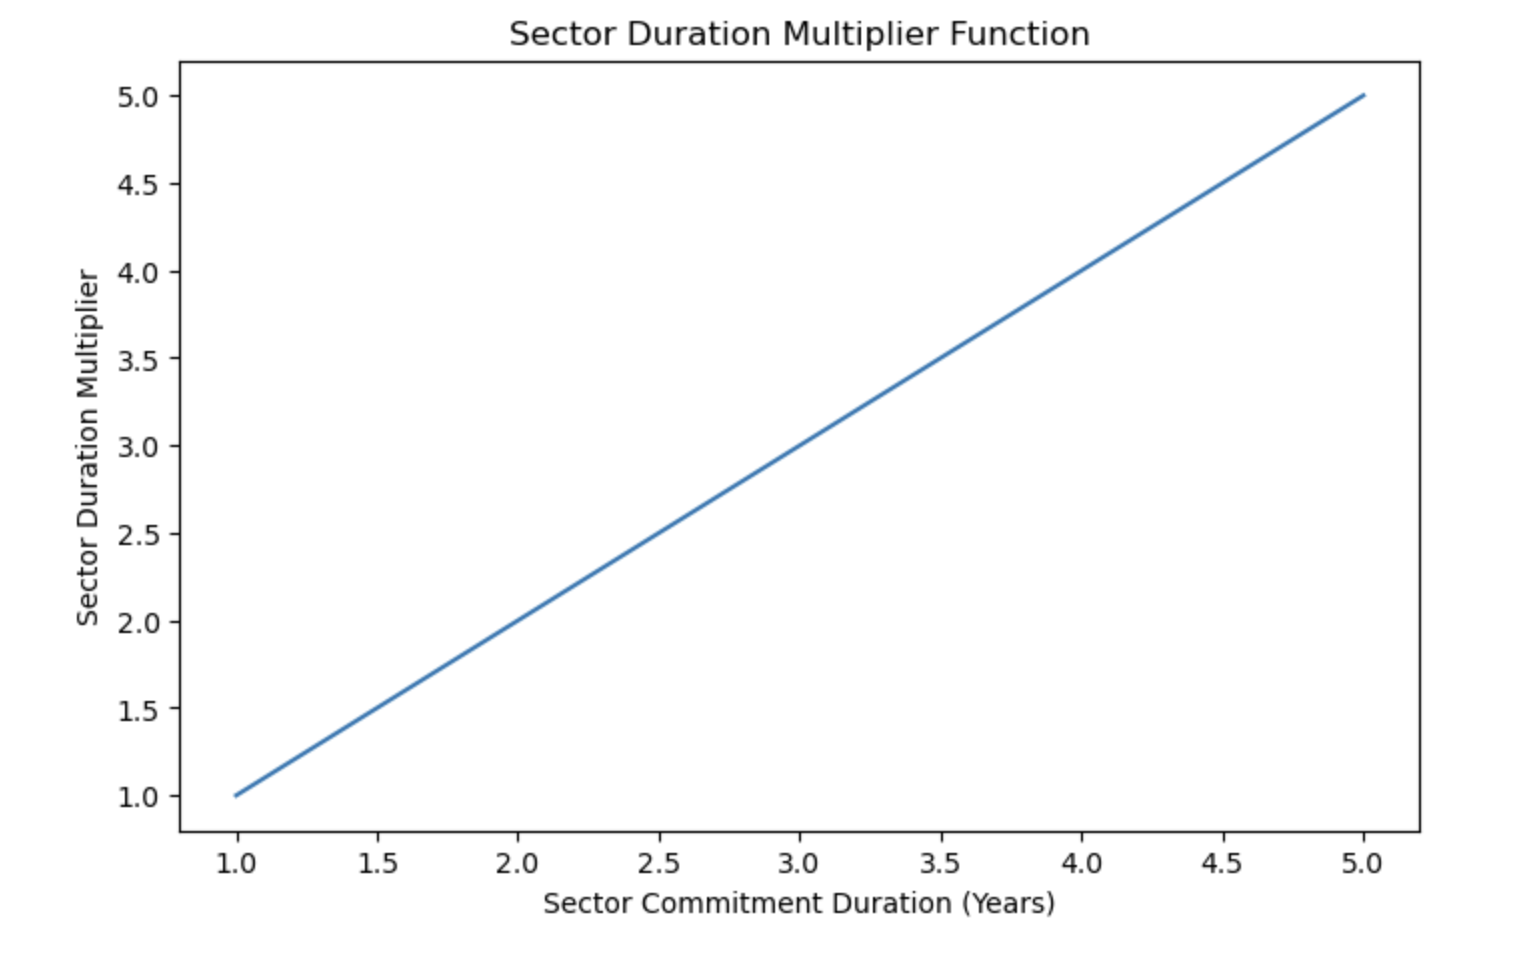
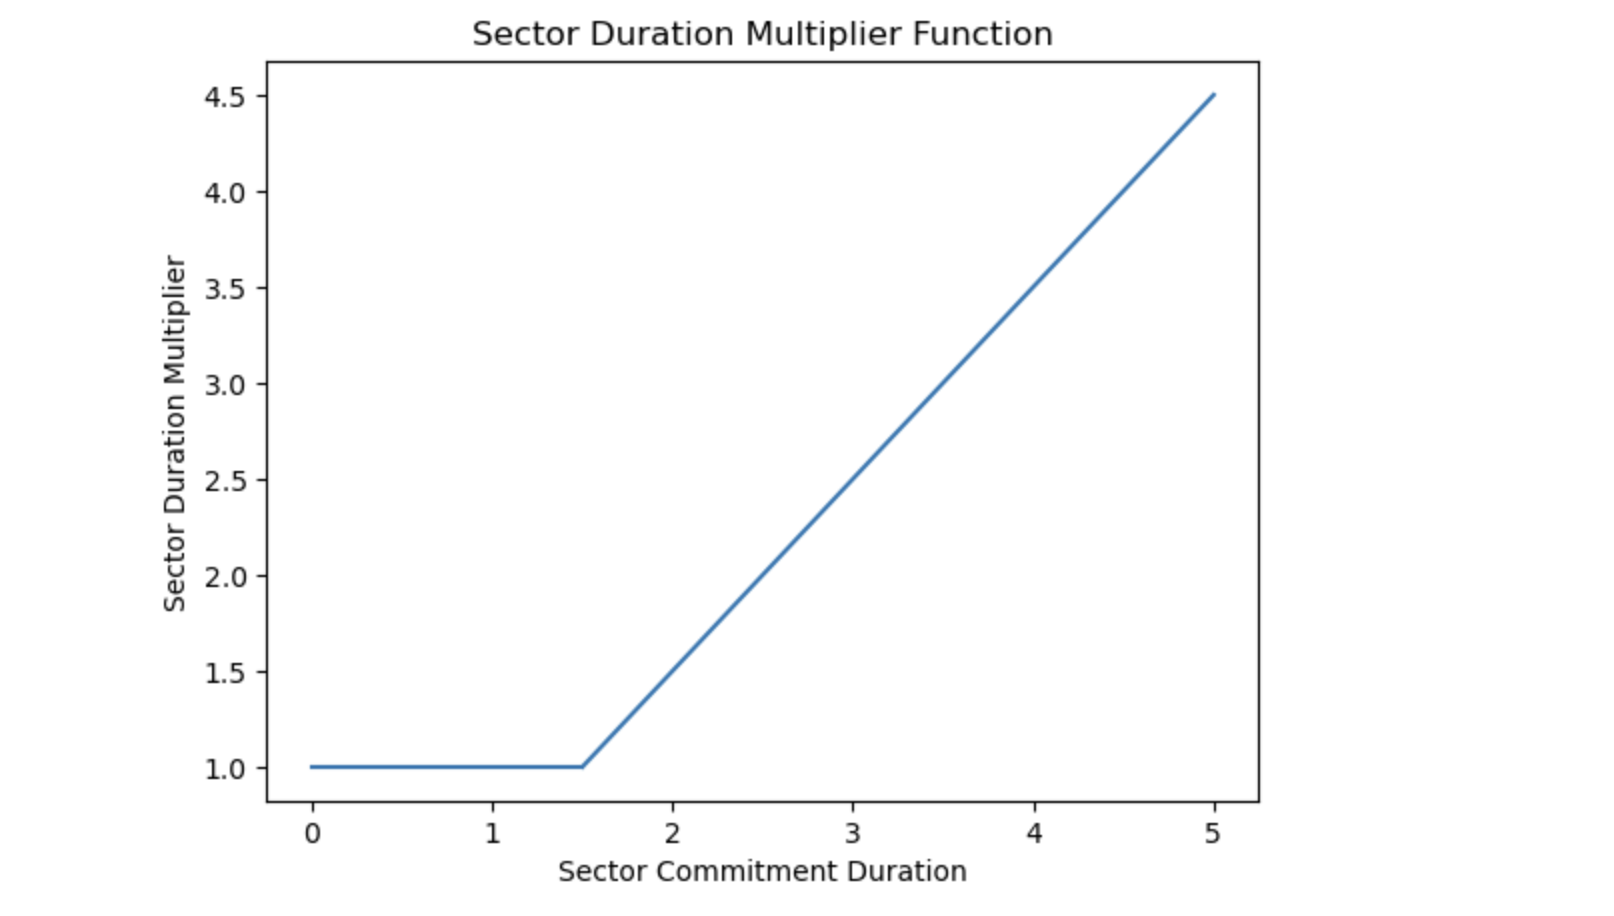
Further updates to spec and SDM Function

diff --git a/FIPS/fip-00XX.md b/FIPS/fip-00XX.md
@@ -11,7 +11,7 @@ created: 2022-12-14
 ## Simple Summary
 - A Sector Duration Multiplier (SDM) is introduced for all sectors, including Committed Capacity (CC) sectors and sectors containing storage deals.
 - A longer sector will have a higher Quality Adjusted Power than a shorter sector, all things equal.
-- The Duration Multiplier is multiplicative on the existing Quality Multiplier incentive (Filecoin Plus incentive). [Filecoin Plus](https://github.com/filecoin-project/FIPs/blob/master/FIPS/fip-0003.md) already offers up to a 10x multiplier for proving storage of data from verified clients. This FIP introduces an independent Duration Multiplier up to 5x. Thus, the maximum multiplier available to any sector will increase from 10x to 50x.
+- The Duration Multiplier is multiplicative on the existing Quality Multiplier incentive (Filecoin Plus incentive). [Filecoin Plus](https://github.com/filecoin-project/FIPs/blob/master/FIPS/fip-0003.md) already offers up to a 10x multiplier for proving storage of data from verified clients. This FIP introduces an independent Duration Multiplier up to 4.5x. Thus, the maximum multiplier available to any sector will increase from 10x to 45x.
 - Sectors with higher Quality Adjusted Power as a result of the Sector Duration Multiplier and Quality Multiplier will require higher initial pledge collateral.
 - The minimum sector duration time will increase from 6 months to 1 year and the maximum sector duration will increase from 1.5 years to 5 years. The upper bound of [Deal Duration Bounds](https://github.com/filecoin-project/builtin-actors/blob/b5c101ab94f562ba43c1eca31bd1e73c6fc35794/actors/market/src/policy.rs#L33-L35) will increase to 5 years as well. 
 - CEL and the community will monitor the network and look to increase the maximum sector duration in a future FIP if network conditions merit, pending community-driven support for such measures.
@@ -20,7 +20,7 @@ created: 2022-12-14
 
 
 ## Problem Motivation
-Currently, Storage Providers do not receive any additional compensation or incentives for committing longer term sectors (whether that be CC or storage deals) to the network. The protocol places equal value on 180 to 540 day sectors in terms of storage mining rewards. However, in making an upfront commitment to longer term sectors, Storage Providers take on additional operational risks (more can go wrong in a longer time period), and lock rewards for longer. Furthermore, in committing longer term sectors/deals, Storage Providers demonstrate their long-term commitment to the mission and growth of the Filecoin Network, and are more aligned with client preference for persistent storage. Therefore, the added value of longer-term sector commitments, coupled with the compounded operational/liquidity risks Storage Providers incur for committing longer term sectors should be compensated for in the form of increased rewards.
+Currently, Storage Providers do not receive any additional compensation or incentives for committing longer term sectors (whether that be CC or storage deals) to the network. The protocol places equal value on 180 to 540 day sectors in terms of storage mining rewards. However, in making an upfront commitment to longer-term sectors, Storage Providers take on additional operational risks (more can go wrong in a longer time period), and lock rewards for longer. Furthermore, in committing longer term sectors/deals, Storage Providers demonstrate their long-term commitment to the mission and growth of the Filecoin Network, and are more aligned with client preference for persistent storage. Therefore, the added value of longer-term sector commitments, coupled with the compounded operational/liquidity risks Storage Providers incur for committing longer term sectors should be compensated for in the form of increased rewards.
 
 From a macroeconomic perspective, earlier community [discussions](https://github.com/filecoin-project/community/discussions/572) have highlighted many challenges and economic headwinds the Filecoin network faces. Some key issues include: 
 - A challenging investment environment given current global macroeconomic dynamics coupled with recent volatility in crypto markets
@@ -43,7 +43,7 @@ fn sdm(duration_commitment: f64) -> f64 {
     }
 }
 ```
-### SDM Upon Onboarding 
+### SDM Upon Sector Onboarding 
 Upon onboarding, the SDM applies from activaion epoch to expiration epoch: 
 
 ```
@@ -111,9 +111,9 @@ Introduce a multiplier based on sector duration
 | **SectorDurationMultiplier (SDM)** | **Multiplier for power for storage based on promised sector duration** |
 
 **This SectorDurationMultiplier function proposed is linear with slope 1**. See below for the function proposed. 
-![SDM_Function](../resources/fip-00XX/SDM_Function.jpg)
+![SDM_Function](../resources/fip-00XX/SDM_Function.png)
 
-The rationale to select this linear slope 1 function is based on a principle that the selected parameters should maximize the effectiveness of the duration incentive, subject to SP’s collateral availability constraints, while taking into account micro and macroeconomic consequences with minimal added implementation complexity. 
+The rationale to select this linear slope 1 function is based on a principle that the selected parameters should maximize the effectiveness of the duration incentive, subject to SP’s collateral availability constraints, while taking into account micro and macroeconomic consequences with minimal added implementation complexity. The SDM function is linear with slope 1 with initial sector commitments between 1 and 1.5 years receiving a 1x Quality multiplier so as to not disadvantage SP's who had already committed sectors for 1.5 years. 
 
 Therefore, the new suggested *Sector Quality Adjusted Power* is: 
 
@@ -126,7 +126,7 @@ We propose a minimum sector commitment of 1 year. This is a ~180-day increase fr
 We propose a maximum sector commitment of 5 years. This is an increase from the current maximum sector commitment of 540 days. Note, the protocol currently sets a maximum sector lifetime to 5 years (i.e sectors can be extended up to 5 years). This FIP would not adjust that.
 
 ### Change to PreCommitDeposit (PCD)
-With this FIP, sectors can get higher quality multipliers and receive higher expected rewards than currently possible. This has an impact on the value of the PreCommit Deposit (PCD). From the security point of view, PCD has to be large enough in order to consume the expected gain of a provider that is able to pass the PoRep phase with an invalid replica (i.e. gaining block rewards without storing). The recent FIP-0034 sets the PCD to 20 days of expected reward for a sector of quality 10 (max sector quality currently possible via FIL+ incentives). We now need to adjust this to 20 days of expected reward for a sector of quality 50 (the new max quality) to maintain the status quo about PoRep security.
+With this FIP, sectors can get higher quality multipliers and receive higher expected rewards than currently possible. This has an impact on the value of the PreCommit Deposit (PCD). From the security point of view, PCD has to be large enough in order to consume the expected gain of a provider that is able to pass the PoRep phase with an invalid replica (i.e. gaining block rewards without storing). The recent FIP-0034 sets the PCD to 20 days of expected reward for a sector of quality 10 (max sector quality currently possible via FIL+ incentives). We now need to adjust this to 20 days of expected reward for a sector of quality 45 (the new max quality) to maintain the status quo about PoRep security.
 
 ### Change to Termination Fees
 In the new policy the termination fee cap will scale with the duration multiplier. The rationale is to maintain the relative incentives regarding the ratio of termination fees to aggregate lifetime block rewards of a sector. 
@@ -171,25 +171,25 @@ In reality, the percentage of available supply locked has been decreasing since 
 This environment can be improved however. Longer sectors mean collateral is locked for longer. All else equal,  this means the total amount of locked collateral is consistently higher.
 
 ### Impact on Pre-Commit Deposit
-FIP-0034 sets the pre-commit deposit to a fixed value regardless of sector content. From a security point of view, PCD has to be large enough in order to cover the expected gain of a provider that is able to pass the PoRep phase with an invalid replica (i.e. gaining block rewards without storing). The recent FIP-0034 sets the PCD to 20 days of expected reward for a sector of quality 10 (max quality). We now need to increase this to 20 days of expected reward for a sector of quality 50 (the new max quality) to maintain the status quo about PoRep security.
+FIP-0034 sets the pre-commit deposit to a fixed value regardless of sector content. From a security point of view, PCD has to be large enough in order to cover the expected gain of a provider that is able to pass the PoRep phase with an invalid replica (i.e. gaining block rewards without storing). The recent FIP-0034 sets the PCD to 20 days of expected reward for a sector of quality 10 (max quality). We now need to increase this to 20 days of expected reward for a sector of quality 45 (the new max quality) to maintain the status quo about PoRep security.
 
 As of December 2022, the calculations are approximately:
 ```
 EpochReward := 97.1115 FIL
 NetworkPower := 18.985 * 2^60 Bytes
-CirculatingSuppply := 401.5 * 10^6 FIL
+CirculatingSuppply := 401.4699 * 10^6 FIL
 
 // Sector Quality = 1
-StoragePledge := 0.00878 FIL
-ConsensusPledge := 0.18907 FIL
-PreCommitDeposit := 50 * StoragePledge = 0.43904 FIL
-InitialPledge := StoragePledge + ConsensusPledge = 0.19785 FIL
+StoragePledge := 0.0088
+ConsensusPledge := 0.1891 FIL
+PreCommitDeposit := 45 * StoragePledge = 0.3951
+InitialPledge := StoragePledge + ConsensusPledge = 0.1978
 
-// Sector Quality = 50
-StoragePledge := 0.43904 FIL
-ConsensusPledge := 9.45331 FIL
-PreCommitDeposit := StoragePledge = 0.43904 FIL
-InitialPledge := StoragePledge + ConsensusPledge = 9.89235 FIL
+// Sector Quality = 45
+StoragePledge := 0.3951
+ConsensusPledge := 8.5080 FIL
+PreCommitDeposit := StoragePledge = 0.3951
+InitialPledge := StoragePledge + ConsensusPledge = 8.9031
 ```
 
 ## Backwards Compatability 
@@ -217,12 +217,12 @@ Then in a single day, the adversarial group is expected to gain around 0.32% of 
 
 ```
 1. advPower = advFILplusPct * FILplusMultiplier * durationMultiplier * powerOnboarding * FILplusPct
-2. advPower =  0.5 * 10 * 5 * 5 * 0.5 = 62.5
+2. advPower =  0.5 * 10 * 5 * 4.5 * 0.5 = 56.25
 ```
 where advFILplusPct is the fraction of FILplus deals available that are acquired by the adversary, FILplusMultiplier is the 10x FIL+ power multiplier, durationMultiplier is the maximum 5 year duration multiplier, powerOnboarding is the byte power onboarded, and FILplusPct is the fraction of the power that is FIL+.
 
 ```
-3. honestPower = 0.5 * 10 * 1 * 5 * 0.5 + 1 * 1 * 5 * 0.5 = 15
+3. honestPower = 0.5 * 10 * 1 * 4.5 * 0.5 + 1 * 1 * 4.5 * 0.5 = 13.5
 4. advPowerDailyPctGain = advPower/(19*1024 + honestPower)
 5. advPowerDailyPctGain = 0.3%
 ````
@@ -231,7 +231,8 @@ where advFILplusPct is the fraction of FILplus deals available that are acquired
 - A limitation is that the above calculation assumes the malicious party is starting from 0% of consensus power. If they already control 10%, time to 33% and 51% is reduced to approximately 70 and 150 days. And they have to gain 4.5 and 9.1 EiB.
 
 ### Rollout Shock
-This policy would only apply for newly onboarded sectors, mitigating potential network shocks as SP’s are limited by sealing throughput. 
+
+A risk is that the SDM slope is too steep, inadvertently restricting longer commitment. If this happens, optionality on the multiplier can be introduced in a future upgrade. CEL is committed to continually monitoring the economic health of the network, and adjusting parameter spaces as needed while including community input. We have also publicly released various analyses investigating the impact of potentially sudden changes in the network were this policy to be implemented [here](https://hackmd.io/uDXfe35UQuaLjED9u1fxyA)
 
 ## Product & Incentive Considerations
 As discussed in the problem motivation section, this FIP introduces incentives to further align the cryptoeconomic schema of the Filecoin Network with intended goals of the network to provide useful and reliable storage. We introduce the idea that longer term sectors represent a long-term investment and commitment to the Filecoin ecosystem, and therefore should be rewarded proportionally with greater block reward shares.
@@ -243,4 +244,4 @@ From a product perspective, we see strong support for a network more aligned wit
 For smaller SP’s, introducing this policy could help improve their competitiveness and ability to capture network block rewards, Under this proposal, returns on tokens put up as collateral scale linearly for all SP’s (regardless of size), whereas only larger ones are able to take advantage of economies of scale for hardware. This proposal could benefit smaller SP’s because they can still get rewards boost/multipliers without prohibitively expensive hardware costs, and termination risks associated with FIL+ data.
 
 ## Implementation 
-TBD
+See Specifiation Section
